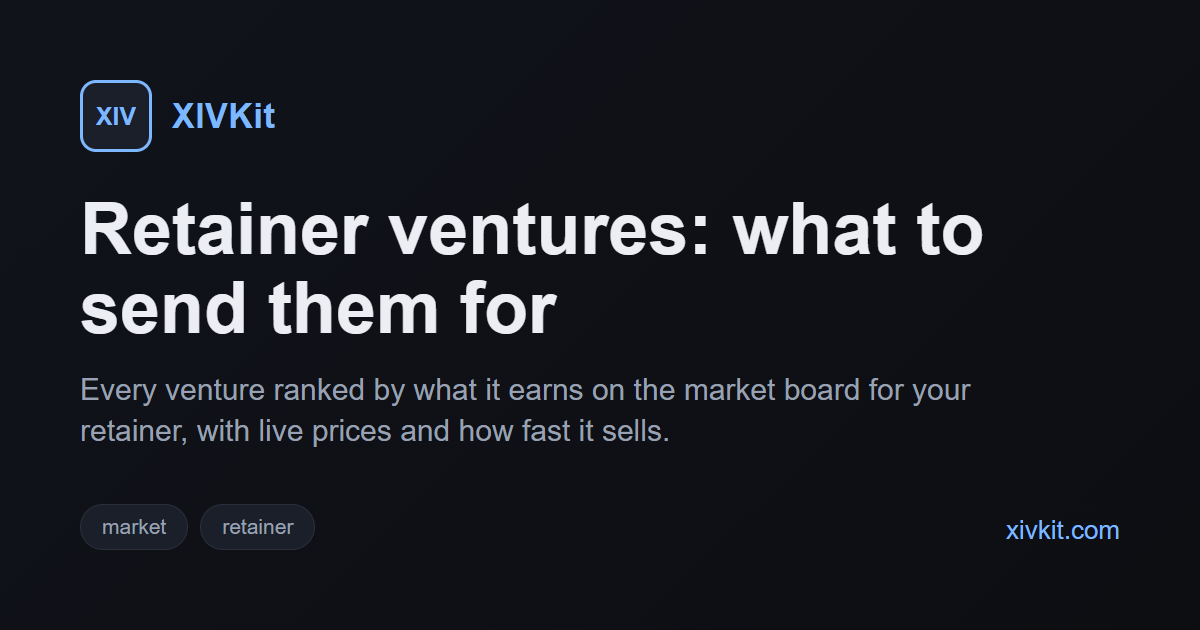
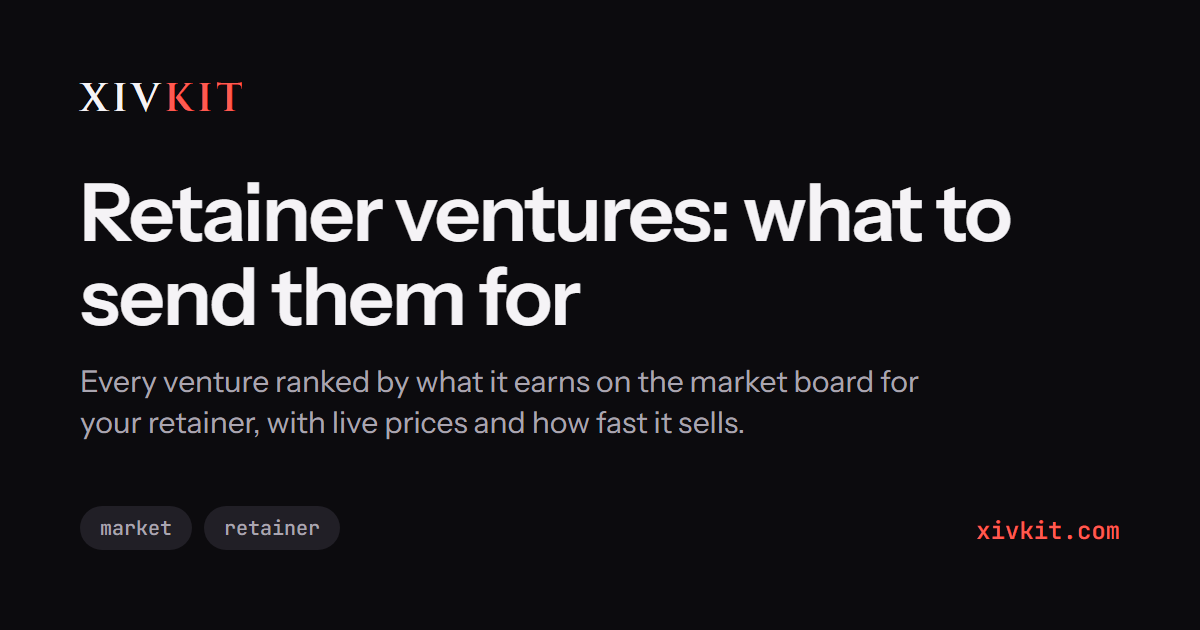
Apply the XIVKit brand to the retainer ventures page
Load brand.css and brand-guide-vars.css, add the wordmark to the nav, switch
to the brand fonts and theme-color tags, and regenerate the OG card. Give the
home page entry its own i18n key (retainerventurestool): it reused
items.retainerventures, which the existing TheGamer minions link already
used, so that link would have shown the wrong description. Bump the sitemap
lastmod.

diff --git a/retainer-ventures.html b/retainer-ventures.html
@@ -16,7 +16,8 @@
 <meta name="description" content="Rank every FFXIV retainer venture by what it earns on the market board for your retainer's class, level, and stats, using live Universalis prices and sales speed.">
 <link rel="canonical" href="https://xivkit.com/retainer-ventures.html">
 <link rel="icon" type="image/svg+xml" href="favicon.svg">
-<meta name="theme-color" content="#12151c">
+<meta name="theme-color" content="#0c0b0e" media="(prefers-color-scheme: dark)">
+<meta name="theme-color" content="#f7f5f8" media="(prefers-color-scheme: light)">
 
 <meta property="og:type" content="article">
 <meta property="og:site_name" content="XIVKit">
@@ -35,7 +36,7 @@
 
 <link rel="preconnect" href="https://fonts.googleapis.com">
 <link rel="preconnect" href="https://fonts.gstatic.com" crossorigin>
-<link href="https://fonts.googleapis.com/css2?family=Bricolage+Grotesque:opsz,wght@12..96,400;12..96,600;12..96,800&family=Atkinson+Hyperlegible:ital,wght@0,400;0,700;1,400&display=swap" rel="stylesheet">
+<link rel="stylesheet" href="https://fonts.googleapis.com/css2?family=Cinzel:wght@600&family=Instrument+Sans:wght@400..700&family=JetBrains+Mono:wght@500;600&display=swap">
 <style>
 :root{
   --paper:#EDF0F3; --surface:#F8F9FB; --ink:#18233B; --muted:#56617A; --rule:#C8D0DB;
@@ -153,11 +154,14 @@ footer li{margin:5px 0}
 }
 @media (prefers-reduced-motion:reduce){*{transition:none!important}}
 </style>
+<link rel="stylesheet" href="brand.css">
+<link rel="stylesheet" href="brand-guide-vars.css">
 </head>
 <body>
 <div class="wrap">
 
 <nav class="site-nav">
+  <a class="wordmark" href="./" aria-label="XIVKit home">XIV<b>KIT</b></a>
   <a href="./">Tools I use</a>
   <a href="watchlist.html">Watchlist</a>
   <a href="plugins.html">Plugins</a>

diff --git a/index.html b/index.html
@@ -379,7 +379,7 @@
         <div class="tags"><button type="button">guide</button><button type="button">inventory</button></div>
       </li>
       <li data-tags="market, retainer">
-        <a href="retainer-ventures.html"><img class="favicon" alt="" loading="lazy" decoding="async" data-icon="og-retainer-ventures.png"><span class="link-body">Retainer Ventures: What to Send Them For<span class="desc" data-i18n="items.retainerventures">Rank every retainer venture by what it earns on the market board for your retainer's class, level, and stats, with live prices and how fast the haul actually sells</span></span></a>
+        <a href="retainer-ventures.html"><img class="favicon" alt="" loading="lazy" decoding="async" data-icon="og-retainer-ventures.png"><span class="link-body">Retainer Ventures: What to Send Them For<span class="desc" data-i18n="items.retainerventurestool">Rank every retainer venture by what it earns on the market board for your retainer's class, level, and stats, with live prices and how fast the haul actually sells</span></span></a>
         <div class="tags"><button type="button">market</button><button type="button">retainer</button></div>
       </li>
     </ul>
